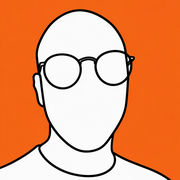
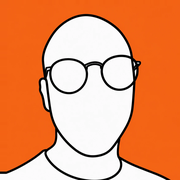
Icona app più centrata sul volto (#713)
* Sfondo Abyss Black, hero con solo il nome, selettore lingue a toggle

Claude-Session: https://claude.ai/code/session_013V1PHrfFfWZxJKR6k5JqCP

* Risposte rapide diventa Q&A

Claude-Session: https://claude.ai/code/session_013V1PHrfFfWZxJKR6k5JqCP

* Tratto a mano sotto i titoli di sezione della home

Claude-Session: https://claude.ai/code/session_013V1PHrfFfWZxJKR6k5JqCP

* Titoli di sezione della home in Destiny Signature, tolto il tratto

Claude-Session: https://claude.ai/code/session_013V1PHrfFfWZxJKR6k5JqCP

* Icona app e favicon dal nuovo ritratto stilizzato

Claude-Session: https://claude.ai/code/session_013V1PHrfFfWZxJKR6k5JqCP

* Icona app più centrata sul volto

Claude-Session: https://claude.ai/code/session_013V1PHrfFfWZxJKR6k5JqCP

* Ripristina versione del ritratto in home

Claude-Session: https://claude.ai/code/session_013V1PHrfFfWZxJKR6k5JqCP

---------

Changed region(s): [[0.0, 0.0278, 0.9444, 1.0]]

diff --git a/rag-aziendale.html b/rag-aziendale.html
@@ -11,10 +11,10 @@
 <meta name="description" content="Un assistente AI che risponde dai documenti dell’azienda e cita le fonti, per gestire più in fretta problemi operativi e analisi del middle management. In produzione dal 2026.">
 <link rel="canonical" href="https://nforcolin.eu/rag-aziendale.html">
 
-<link rel="icon" href="favicon.svg?v=4" type="image/svg+xml">
-<link rel="icon" href="favicon-32.png?v=4" type="image/png" sizes="32x32">
-<link rel="icon" href="favicon-16.png?v=4" type="image/png" sizes="16x16">
-<link rel="apple-touch-icon" href="apple-touch-icon.png?v=4">
+<link rel="icon" href="favicon.svg?v=5" type="image/svg+xml">
+<link rel="icon" href="favicon-32.png?v=5" type="image/png" sizes="32x32">
+<link rel="icon" href="favicon-16.png?v=5" type="image/png" sizes="16x16">
+<link rel="apple-touch-icon" href="apple-touch-icon.png?v=5">
 <link rel="manifest" href="manifest.json">
 
 <meta property="og:type" content="website">

diff --git a/ai-in-locale.html b/ai-in-locale.html
@@ -11,10 +11,10 @@
 <meta name="description" content="Un test su modelli AI aperti (Llama, Gemma), addestrati su domande specifiche e usati in locale con Ollama, senza inviare dati all’esterno.">
 <link rel="canonical" href="https://nforcolin.eu/ai-in-locale.html">
 
-<link rel="icon" href="favicon.svg?v=4" type="image/svg+xml">
-<link rel="icon" href="favicon-32.png?v=4" type="image/png" sizes="32x32">
-<link rel="icon" href="favicon-16.png?v=4" type="image/png" sizes="16x16">
-<link rel="apple-touch-icon" href="apple-touch-icon.png?v=4">
+<link rel="icon" href="favicon.svg?v=5" type="image/svg+xml">
+<link rel="icon" href="favicon-32.png?v=5" type="image/png" sizes="32x32">
+<link rel="icon" href="favicon-16.png?v=5" type="image/png" sizes="16x16">
+<link rel="apple-touch-icon" href="apple-touch-icon.png?v=5">
 <link rel="manifest" href="manifest.json">
 
 <meta property="og:type" content="website">

diff --git a/fuori-dal-lavoro.html b/fuori-dal-lavoro.html
@@ -11,10 +11,10 @@
 <meta name="description" content="Musica Hi-Fi, fotografia, orologi, libri e animali: gli hobby di Nicolò Forcolin fuori dal lavoro.">
 <link rel="canonical" href="https://nforcolin.eu/fuori-dal-lavoro.html">
 
-<link rel="icon" href="favicon.svg?v=4" type="image/svg+xml">
-<link rel="icon" href="favicon-32.png?v=4" type="image/png" sizes="32x32">
-<link rel="icon" href="favicon-16.png?v=4" type="image/png" sizes="16x16">
-<link rel="apple-touch-icon" href="apple-touch-icon.png?v=4">
+<link rel="icon" href="favicon.svg?v=5" type="image/svg+xml">
+<link rel="icon" href="favicon-32.png?v=5" type="image/png" sizes="32x32">
+<link rel="icon" href="favicon-16.png?v=5" type="image/png" sizes="16x16">
+<link rel="apple-touch-icon" href="apple-touch-icon.png?v=5">
 <link rel="manifest" href="manifest.json">
 
 <meta property="og:type" content="website">

diff --git a/percorso.html b/percorso.html
@@ -11,10 +11,10 @@
 <meta name="description" content="Il percorso di Nicolò Forcolin: dalle polizze al RAG in produzione, passando per il Service Desk.">
 <link rel="canonical" href="https://nforcolin.eu/percorso.html">
 
-<link rel="icon" href="favicon.svg?v=4" type="image/svg+xml">
-<link rel="icon" href="favicon-32.png?v=4" type="image/png" sizes="32x32">
-<link rel="icon" href="favicon-16.png?v=4" type="image/png" sizes="16x16">
-<link rel="apple-touch-icon" href="apple-touch-icon.png?v=4">
+<link rel="icon" href="favicon.svg?v=5" type="image/svg+xml">
+<link rel="icon" href="favicon-32.png?v=5" type="image/png" sizes="32x32">
+<link rel="icon" href="favicon-16.png?v=5" type="image/png" sizes="16x16">
+<link rel="apple-touch-icon" href="apple-touch-icon.png?v=5">
 <link rel="manifest" href="manifest.json">
 
 <meta property="og:type" content="website">

diff --git a/index.html b/index.html
@@ -11,10 +11,10 @@
 <meta name="description" content="IT per le PA dal 2022, Tech Lover dal 1992. Ho il vizio di complicarmi la vita per semplificarla agli altri.">
 <link rel="canonical" href="https://nforcolin.eu/">
 
-<link rel="icon" href="favicon.svg?v=4" type="image/svg+xml">
-<link rel="icon" href="favicon-32.png?v=4" type="image/png" sizes="32x32">
-<link rel="icon" href="favicon-16.png?v=4" type="image/png" sizes="16x16">
-<link rel="apple-touch-icon" href="apple-touch-icon.png?v=4">
+<link rel="icon" href="favicon.svg?v=5" type="image/svg+xml">
+<link rel="icon" href="favicon-32.png?v=5" type="image/png" sizes="32x32">
+<link rel="icon" href="favicon-16.png?v=5" type="image/png" sizes="16x16">
+<link rel="apple-touch-icon" href="apple-touch-icon.png?v=5">
 <link rel="manifest" href="manifest.json">
 
 <meta property="og:type" content="website">

diff --git a/progetti.html b/progetti.html
@@ -11,10 +11,10 @@
 <meta name="description" content="I progetti AI e le iniziative di consulenza, formazione e community di Nicolò Forcolin.">
 <link rel="canonical" href="https://nforcolin.eu/progetti.html">
 
-<link rel="icon" href="favicon.svg?v=4" type="image/svg+xml">
-<link rel="icon" href="favicon-32.png?v=4" type="image/png" sizes="32x32">
-<link rel="icon" href="favicon-16.png?v=4" type="image/png" sizes="16x16">
-<link rel="apple-touch-icon" href="apple-touch-icon.png?v=4">
+<link rel="icon" href="favicon.svg?v=5" type="image/svg+xml">
+<link rel="icon" href="favicon-32.png?v=5" type="image/png" sizes="32x32">
+<link rel="icon" href="favicon-16.png?v=5" type="image/png" sizes="16x16">
+<link rel="apple-touch-icon" href="apple-touch-icon.png?v=5">
 <link rel="manifest" href="manifest.json">
 
 <meta property="og:type" content="website">

diff --git a/privacy.html b/privacy.html
@@ -12,10 +12,10 @@
 <meta name="robots" content="noindex,follow">
 <link rel="canonical" href="https://nforcolin.eu/privacy.html">
 
-<link rel="icon" href="favicon.svg?v=4" type="image/svg+xml">
-<link rel="icon" href="favicon-32.png?v=4" type="image/png" sizes="32x32">
-<link rel="icon" href="favicon-16.png?v=4" type="image/png" sizes="16x16">
-<link rel="apple-touch-icon" href="apple-touch-icon.png?v=4">
+<link rel="icon" href="favicon.svg?v=5" type="image/svg+xml">
+<link rel="icon" href="favicon-32.png?v=5" type="image/png" sizes="32x32">
+<link rel="icon" href="favicon-16.png?v=5" type="image/png" sizes="16x16">
+<link rel="apple-touch-icon" href="apple-touch-icon.png?v=5">
 <link rel="manifest" href="manifest.json">
 
 <meta property="og:type" content="website">

diff --git a/404.html b/404.html
@@ -12,10 +12,10 @@
 <meta name="description" content="La pagina che cercavi non esiste o è stata spostata.">
 <meta name="robots" content="noindex">
 
-<link rel="icon" href="favicon.svg?v=4" type="image/svg+xml">
-<link rel="icon" href="favicon-32.png?v=4" type="image/png" sizes="32x32">
-<link rel="icon" href="favicon-16.png?v=4" type="image/png" sizes="16x16">
-<link rel="apple-touch-icon" href="apple-touch-icon.png?v=4">
+<link rel="icon" href="favicon.svg?v=5" type="image/svg+xml">
+<link rel="icon" href="favicon-32.png?v=5" type="image/png" sizes="32x32">
+<link rel="icon" href="favicon-16.png?v=5" type="image/png" sizes="16x16">
+<link rel="apple-touch-icon" href="apple-touch-icon.png?v=5">
 <link rel="manifest" href="manifest.json">
 
 
